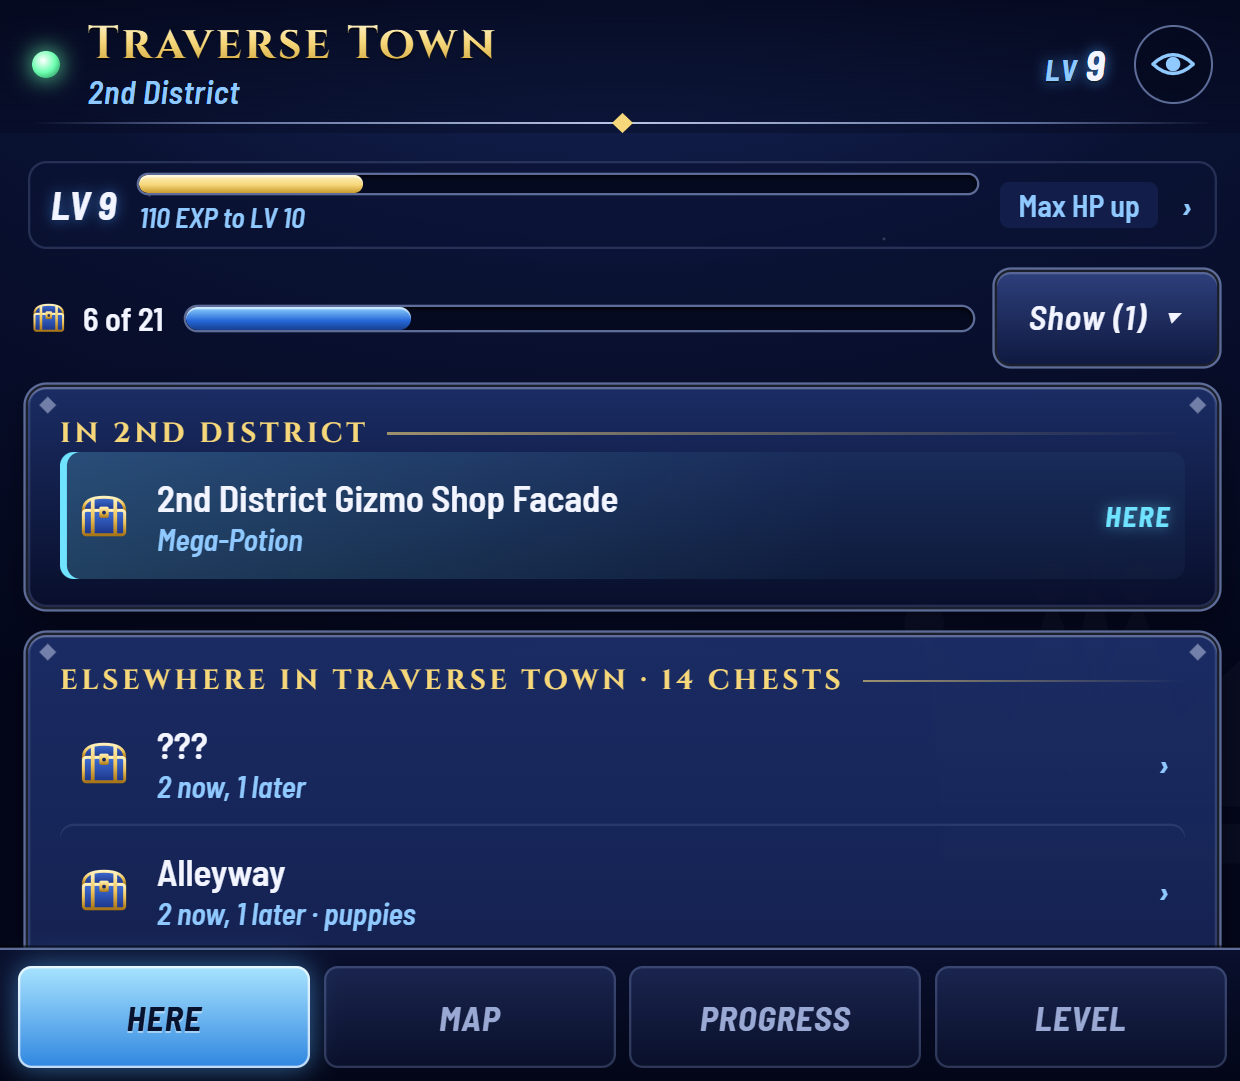
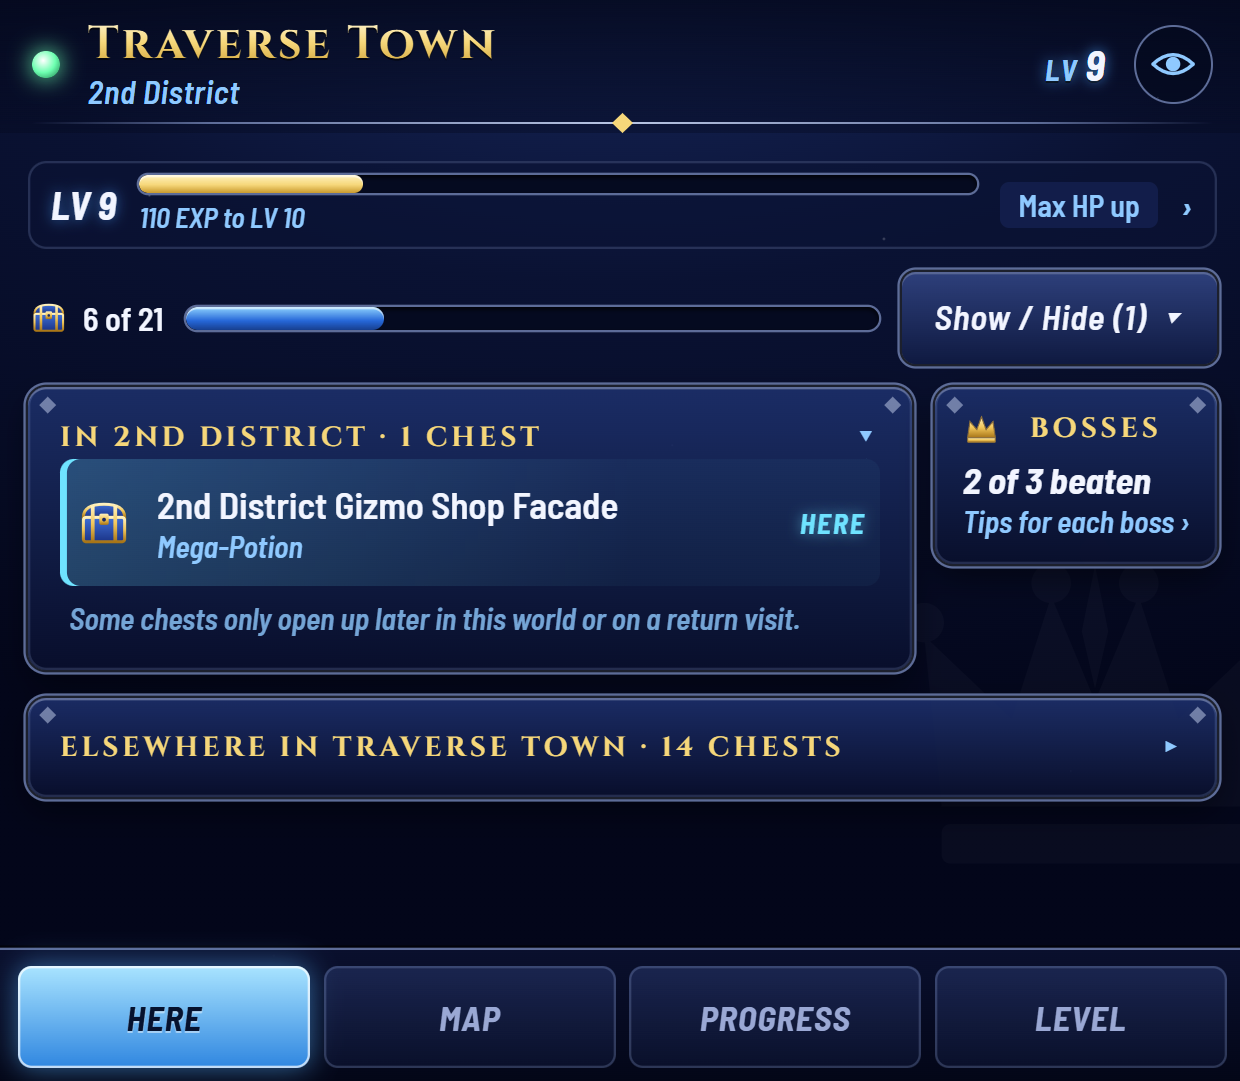
Release 0.9.0-beta.8
Bosses with tips, chest needs and timing from walkthroughs, a tidier Here
(folding sections, Show / Hide, battery). Short notes; fresh screenshots.

Changed region(s): [[0.0, 0.2442, 1.0, 0.8853], [0.6435, 0.4579, 0.7048, 0.519], [0.3065, 0.2747, 0.3371, 0.3053]]

diff --git a/RELEASE_NOTES.md b/RELEASE_NOTES.md
@@ -1,11 +1,10 @@
-**KH1 Companion 0.9.0-beta.7** is a new beta: a simpler companion that shows only what the game's own data proves. Fix-only revisions will be numbered beta.7.1, beta.7.2 and so on.
+**KH1 Companion 0.9.0-beta.8** is a new beta: boss tips and clearer chest info. Fix-only revisions will be numbered beta.8.1, beta.8.2 and so on.
 
-Download **KH1-Companion-v0.9.0-beta.7.apk** below. The [main page](https://github.com/keberos/kh1-companion#readme) covers setup, use and uninstalling.
+Download **KH1-Companion-v0.9.0-beta.8.apk** below. The [main page](https://github.com/keberos/kh1-companion#readme) covers setup, use and uninstalling.
 
 ### What's new
-- **Simpler and more reliable.** Four tabs (Here, Map, Progress and Level) showing only what the game's own data proves.
-- **Clearer map.** Each room's count has a chest icon, an open chest once a room is done, and save points are labelled as found so far, not every one.
-- **Two more save points:** Traverse Town's Accessory Shop and the Dive's last station.
-- **Fixes:** launching from Cocoon gives the game the controller straight away, and the bridge no longer checks for files during play. A camera-spin test showed no frame drops with the companion open or closed.
+- **Bosses.** Each world's bosses in story order, hidden until you tap for the next one, with a few tips each. Bosses your save shows you've beaten tick themselves.
+- **What a chest needs, and when.** Where at least two walkthroughs agree, a chest says what you need (a Trinity, Glide, a spell), or that it opens up after an event or on a later visit. Chests with nothing known no longer look gettable now.
+- **A tidier Here.** Sections fold to one line, there's a **Show / Hide** button, and the battery shows beside your level.
 
-**Updating from beta.6:** install over it. Nothing to redo.
+**Updating from beta.7:** install over it. Nothing to redo.

diff --git a/README.md b/README.md
@@ -21,7 +21,7 @@ Four tabs, all live from the save you have loaded, and only what the game's own 
 
 <table>
   <tr>
-    <td width="50%"><img src="docs/screenshots/here.png" alt="Here tab"><br><b>Here</b>: an EXP bar to your next level (the game hides it in the Status menu), the chests in the room you're in, and which other rooms still hold chests. Tap a chest to see where it is. Below, the world's bosses (see Progress). A chest the walkthroughs agree needs something you don't have yet (Glide, a Trinity, a spell) is marked <i>Later</i>, and one they agree opens up after an event or on a later visit says so.</td>
+    <td width="50%"><img src="docs/screenshots/here.png" alt="Here tab"><br><b>Here</b>: an EXP bar to your next level (the game hides it in the Status menu), the chests in the room you're in, and which other rooms still hold chests; tap a chest to see where it is. A chest the walkthroughs agree needs something you don't have yet (Glide, a Trinity, a spell) says so, as does one they agree opens up after an event or on a later visit. The <b>Bosses</b> tile opens the world's bosses with tips. Sections fold to one line; the battery shows beside your level.</td>
     <td width="50%"><img src="docs/screenshots/map.png" alt="Map tab"><br><b>Map</b>: every room in the world, where you are, and how many chests are left in each. The save points shown are the ones found so far, not every one.</td>
   </tr>
   <tr>
